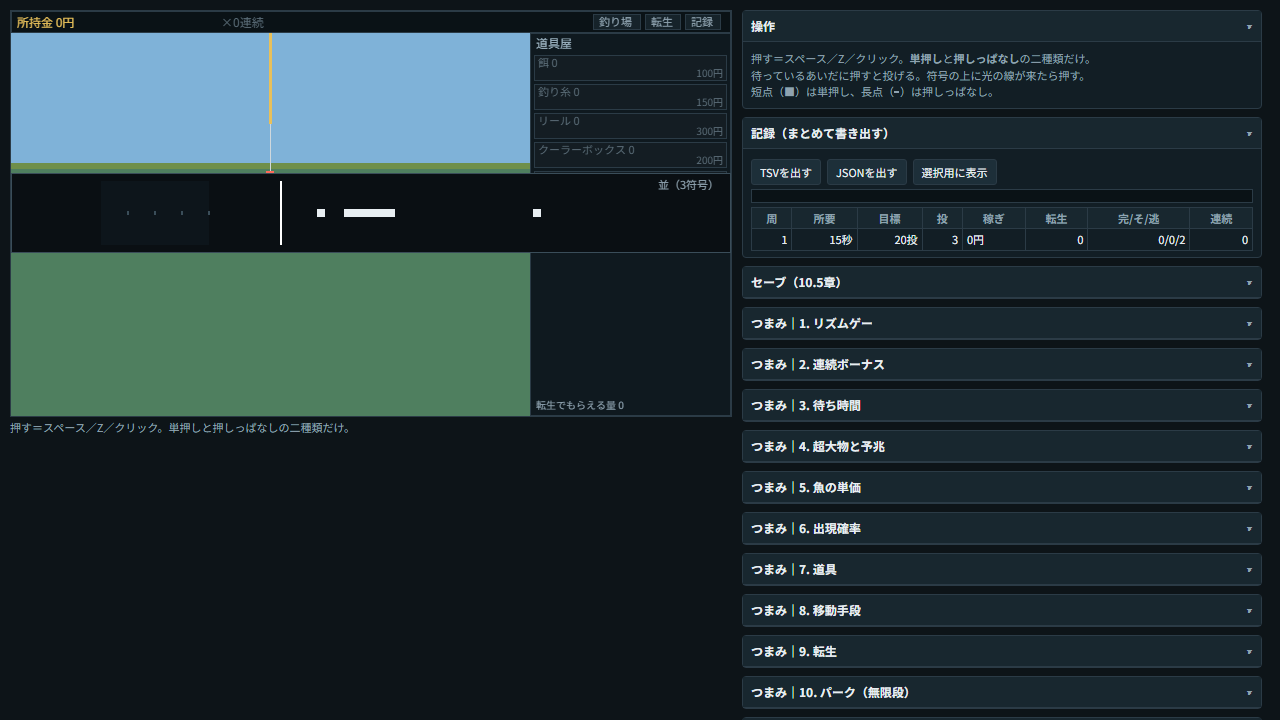
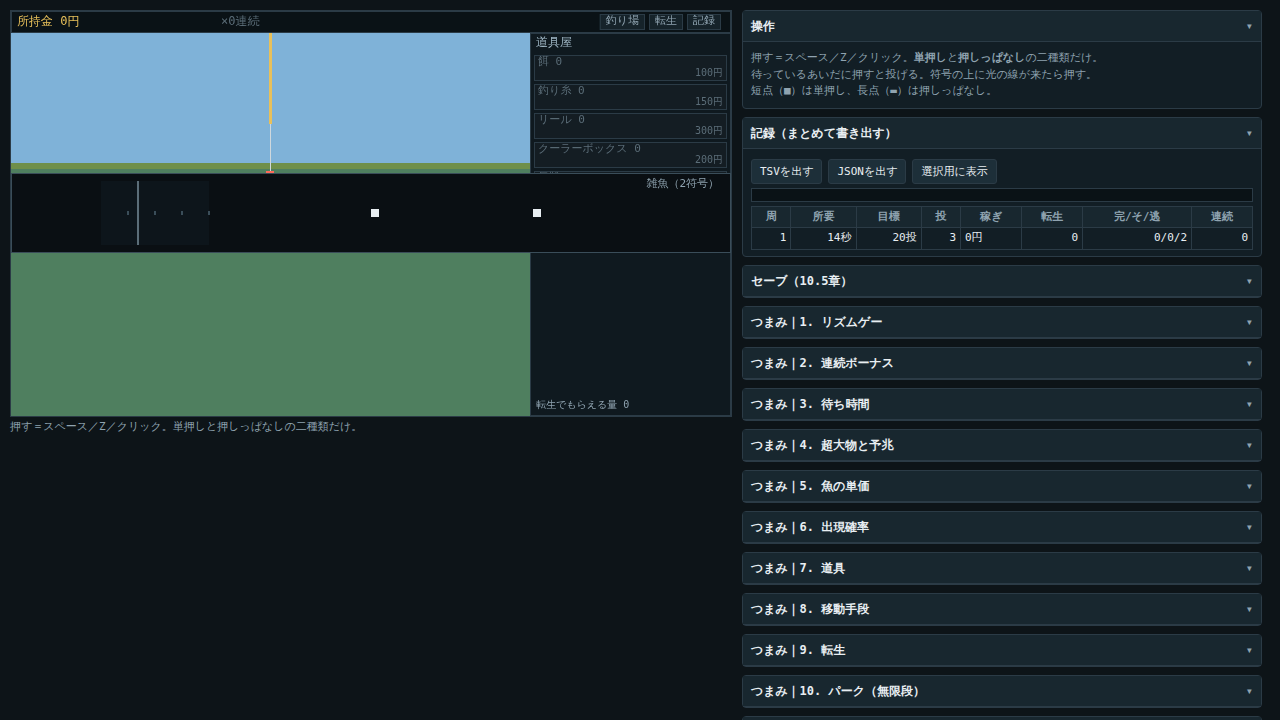
src: 第20版 → 第22版。手触りで決まった四件を実装に入れる
仕様書だけ先に進んでいた状態を解消する。**数値は全部つまみにした**（10章の決まり）。

- **3章「かすりの幅の外で押しても、符号を掴まない」**を入れた。
  これまでは `best < 0`（符号が残っていないとき）でしか弾いておらず、
  どれだけ離れて押しても一番近い符号を掴んでいた。
  8/19の「どんなに離れてても、押せば次の符号が反応する」の直接の原因
- **8章0「符号を押した」**を実装。押した瞬間に符号が一瞬ふくらんで戻る＋打鍵音、
  当たり・かすりで画面の端が緑、外し・窓の外で赤。**保持中は符号を変えない**
- **8章0「外したときは早い／遅いの方向だけ。ミリ秒は出さない」**
- **9章「長音の帯の描き方」**。帯は離してよい位置（holdKeep＝8割）までで描き、
  切った先は薄い影。押しているあいだ通り過ぎた部分がほぼ白に変わる

足したつまみ七つ（tapHz 2200／tapMs 35／tapVol 0.22／flashSec 0.12／symGrow 4／
edgeSec 0.12／dirOn）。すべて既存の分類（音（11章）・13. 演出）に入れた。

**判定は変えていない。**`judgeSymbol` と `finishChart` に触れていない。
押した瞬間の返しは、見立てた段で鳴らすだけで `r.res` に書かない。

**実装が参照する版の記録が第17版のままだった**ので第22版に直した
（`check.md` が「仕様書の版と、実装が参照した版が一致するか」を見る決まりのため）。

確認：`node tools/smoke.mjs` エラーなし。あわせて Chromium で、
遠くで押すと余計な押しに数えて符号を掴まないこと・そのとき端が赤いこと・
狙って押すと符号が反応して端が緑になることを確かめた。

builds/2026-08-20-stage4.html に触れる版を残した。

Claude-Session: https://claude.ai/code/session_01FWfDWPPf3eFfUKrHUiB2gN

diff --git a/builds/README.md b/builds/README.md
@@ -13,6 +13,10 @@
 - `2026-08-18-stage1.html` … 第一段（仕様書 第17版）。数値は10章の初期値のまま
 - `2026-08-18-stage2.html` … 第二段（仕様書 第18版）。転生の割る数と自転車の値段を合わせた版
 - `2026-08-19-stage3.html` … 第三段（仕様書 第20版）。**がべが通しで遊んで判定した版。**出た感触は gamedev の `friction.md`
+- `2026-08-20-stage4.html` … 第四段（仕様書 **第22版**）。手触りの見本で決まったことを
+  実装に入れた版。**距離の上限**（かすりの外では符号を掴まない）、**押した瞬間の返し**
+  （符号が弾ける・打鍵音2200Hz・画面の端が緑／赤）、**長音の帯を離してよい位置まで**、
+  **外したときは早い／遅いの方向だけ**
 - `2026-08-19-tezawari-rhythm.html` … 音ゲーの手触りの見本。一回の釣りの内側だけ。
   **「押した気がしない」と言われた版。**返しのつまみは入／切だけ
 - `2026-08-20-tezawari-rhythm.html` … 同じ見本の、**返しを入／切から「種類と値」に変えた版。**
